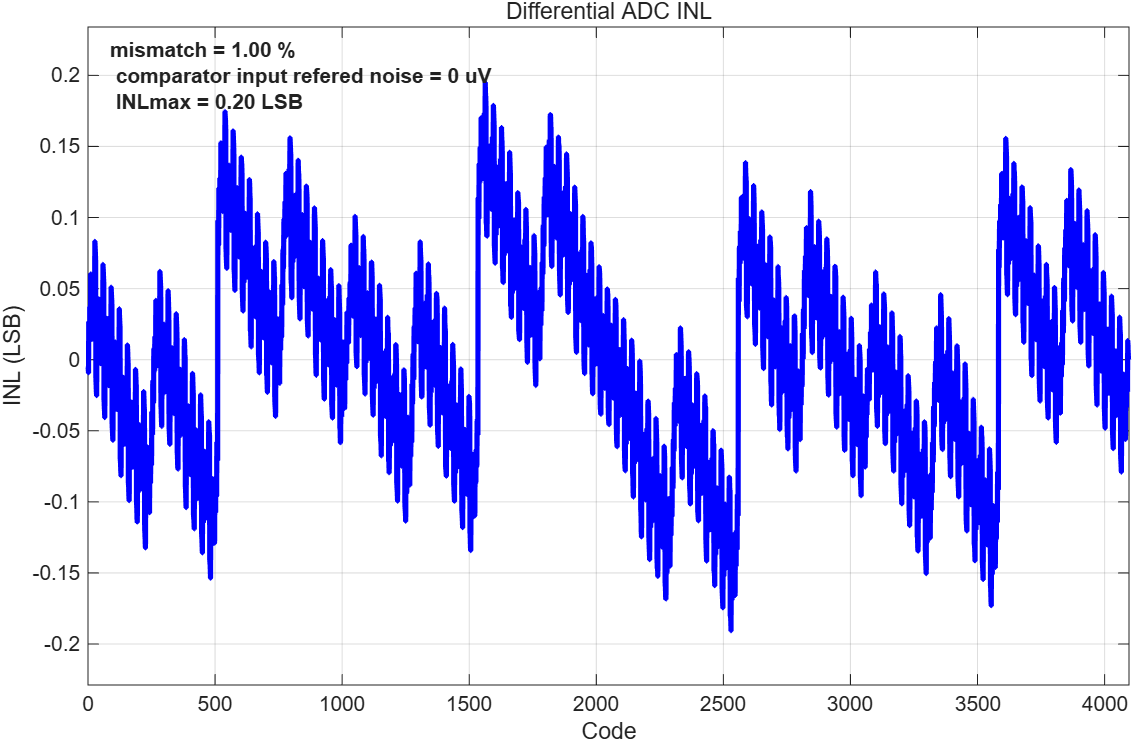
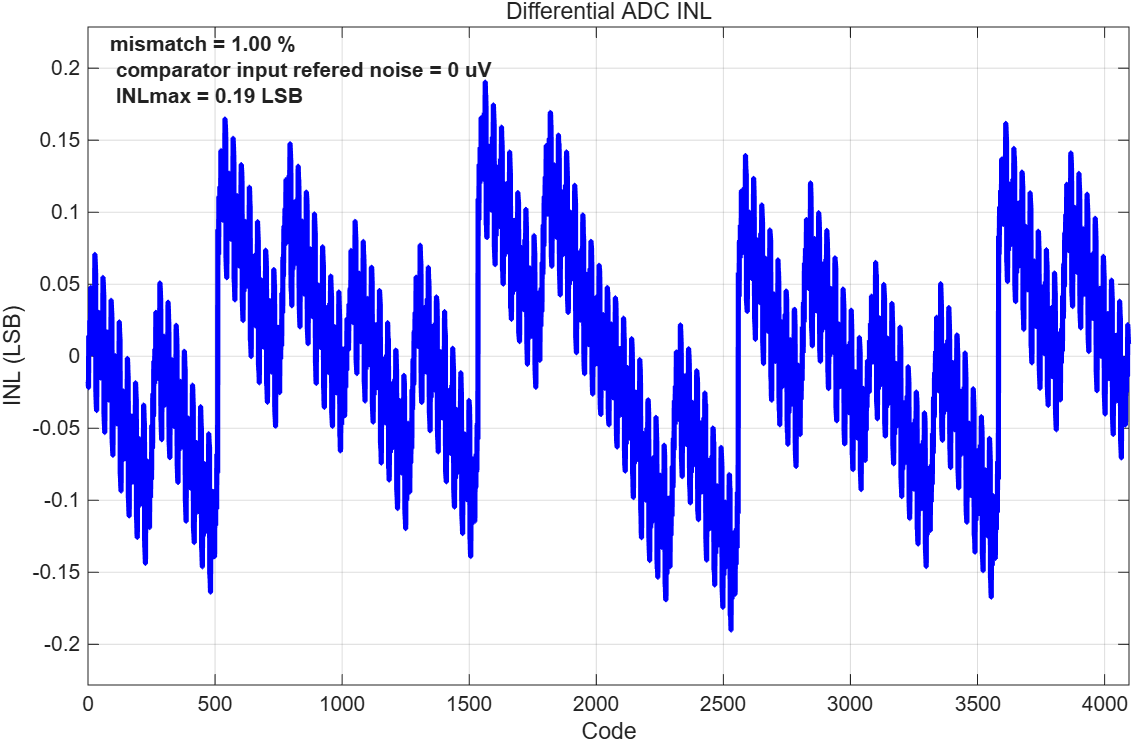
adopt bestfit method by maxim to measure inl

diff --git a/function/plotDifferentialAdcStaticSimulationResult.m b/function/plotDifferentialAdcStaticSimulationResult.m
@@ -12,7 +12,7 @@ function [dnlObj, inlObj] = plotDifferentialAdcStaticSimulationResult( p, adcCod
   title( 'Differential ADC DNL' );
   allDnlResult = [adcCodeDensityStaticPerformanceMetrics.dnlResult( : )];
   statisticsText =  sprintf( 'mismatch = %.2f %% \n comparator input refered noise = %.0f uV \n DNLmax = %.2f LSB', p.mismatchStd * 100, p.compNoise * 1e6, max( abs( allDnlResult ) ) );
-  text( 0.02, 0.98, statisticsText, 'Units', 'normalized', 'HorizontalAlignment', 'left', 'VerticalAlignment', 'top', 'FontWeight', 'bold' );
+  text( 0.02, 0.99, statisticsText, 'Units', 'normalized', 'HorizontalAlignment', 'left', 'VerticalAlignment', 'top', 'FontWeight', 'bold' );
   xlim( [0, 2 .^   ( p.adcResolution ) ] );
   ylim( [1.2 * min( allDnlResult ), 1.2 * max( allDnlResult )] );
   grid on;
@@ -29,7 +29,7 @@ function [dnlObj, inlObj] = plotDifferentialAdcStaticSimulationResult( p, adcCod
   title( 'Differential ADC INL' );
   allInlResult = [adcCodeDensityStaticPerformanceMetrics.inlResult( : )];
   statisticsText =  sprintf( 'mismatch = %.2f %% \n comparator input refered noise = %.0f uV \n INLmax = %.2f LSB', p.mismatchStd * 100, p.compNoise * 1e6, max( abs( allInlResult ) ) );
-  text( 0.02, 0.98, statisticsText, 'Units', 'normalized', 'HorizontalAlignment', 'left', 'VerticalAlignment', 'top', 'FontWeight', 'bold' );xlim( [0, 2 .^   ( p.adcResolution ) ] );
+  text( 0.02, 0.99, statisticsText, 'Units', 'normalized', 'HorizontalAlignment', 'left', 'VerticalAlignment', 'top', 'FontWeight', 'bold' );xlim( [0, 2 .^   ( p.adcResolution ) ] );
   ylim( [1.2 * min( allInlResult ), 1.2 * max( allInlResult )] );
   grid on;
 

diff --git a/function/processDifferentialAdcTransitionData.m b/function/processDifferentialAdcTransitionData.m
@@ -13,16 +13,30 @@ function adcStaticPerformanceMetrics = processDifferentialAdcTransitionData( p, 
 
   transitionVoltage = - p.inputAmplitude * cos( pi * cumCount( 1 : end - 1 ) / sineWave.numOfSamples );
 
-  %% calculate endpoint LSB
+  % %% first end-points fit method : calculate endpoint LSB
+  % 
+  % numTransition = length( transitionVoltage );
+  % voltageLSB = ( transitionVoltage( end ) - transitionVoltage( 1 ) ) / ( numTransition - 1 );
+  
+  %% calculate ideal LSB
 
-  numTransition = length( transitionVoltage );
-  voltageLSB = ( transitionVoltage( end ) - transitionVoltage( 1 ) ) / ( numTransition - 1 );
+  voltageLSB = 2 * p.vRef / 2 .^ p.adcResolution;
 
   %% calculate DNL and INL
 
   codeWidth = diff( transitionVoltage ) ;
   dnlResult = codeWidth / voltageLSB - 1;
-  inlResult = cumsum( dnlResult );
+  rawInlResult = cumsum( dnlResult );
+  
+  % %% second end-points fit method 
+
+  % fitCoefficient = polyfit( [1, 2 .^ p.adcResolution - 2], [rawInlResult( 1 ), rawInlResult( 2 .^ p.adcResolution - 2 )], 1 );
+  % inlResult = rawInlResult - fitCoefficient( 1 ) * (1 : 2 .^ p.adcResolution - 2) - fitCoefficient( 2 );
+
+  %% the best-fit straight line
+
+  fitCoefficient = polyfit( 1 : 2 .^ p.adcResolution - 2, rawInlResult, 1 );
+  inlResult = rawInlResult - fitCoefficient( 1 ) * (1 : 2 .^ p.adcResolution - 2) - fitCoefficient( 2 );
 
   %% save the result
 
@@ -33,5 +47,5 @@ function adcStaticPerformanceMetrics = processDifferentialAdcTransitionData( p, 
   
   disp( inlResult( 1 ) );
   disp( inlResult( end ) );
-  
+
 end

diff --git a/testbench/sim-differential-cbw-conventional-adc/simDifferentialCbwConventionalSarAdc.m b/testbench/sim-differential-cbw-conventional-adc/simDifferentialCbwConventionalSarAdc.m
@@ -7,7 +7,7 @@ format long g
 
 %% set the seed
 
-rng( 127 );
+rng( 105 );
 
 %% load simulation configuration and parameters
 

diff --git a/testbench/sim-differential-cbw-monotonic-adc/simDifferentialCbwMonotonicAdcStaticTest.m b/testbench/sim-differential-cbw-monotonic-adc/simDifferentialCbwMonotonicAdcStaticTest.m
@@ -7,7 +7,7 @@ format long g
 
 %% set the seed
 
-rng( 111 );
+rng( 177 );
 
 %% load simulation configuration and parameters
 
